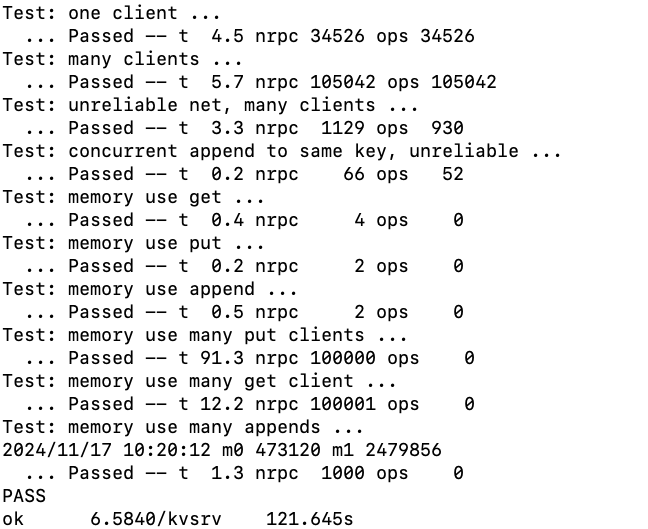
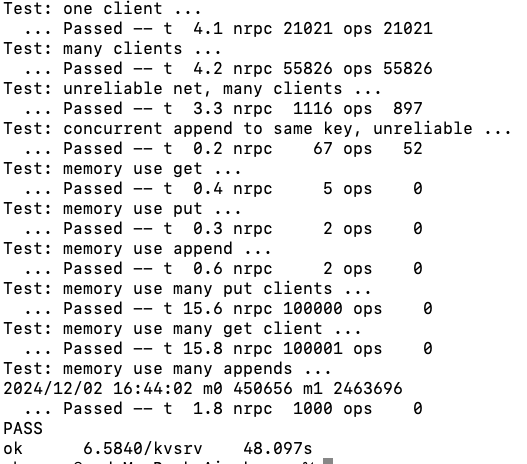
Site updated: 2024-12-02 16:47:57

diff --git a/2024/11/16/824lab2/index.html b/2024/11/16/824lab2/index.html
@@ -25,7 +25,7 @@
 <meta property="og:locale" content="zh_CN">
 <meta property="og:image" content="https://clansi.github.io/images/824lab2-1.png">
 <meta property="article:published_time" content="2024-11-16T08:20:00.644Z">
-<meta property="article:modified_time" content="2024-11-17T07:51:03.878Z">
+<meta property="article:modified_time" content="2024-12-02T08:47:43.460Z">
 <meta property="article:author" content="Clansy">
 <meta name="twitter:card" content="summary_large_image">
 <meta name="twitter:image" content="https://clansi.github.io/images/824lab2-1.png">
@@ -226,7 +226,7 @@
       <span class="post-meta mr-2">
         <i class="iconfont icon-chart"></i>
         
-          2.5k 字
+          2.4k 字
         
       </span>
     
@@ -313,7 +313,7 @@
 <li>在gc时不要删除此时的记录，因为无法保证reply成功</li>
 <li>对于put记录RequestResult时，不需要记录内容，因为可以从key&#x2F;value map里复现。<br>btw,虽然get不需要做request控制，但也可以在最后GC</li>
 </ol>
-<p>实现完成后，运行go test:<br><img src="/../images/824lab2-1.png" srcset="/img/loading.gif" lazyload><br>(many put clients 测试跑了91.3s 不知道是我的问题还是负载确实大？)</p>
+<p>实现完成后，运行go test:<br><img src="/../images/824lab2-1.png" srcset="/img/loading.gif" lazyload></p>
 
                 
               </div>
